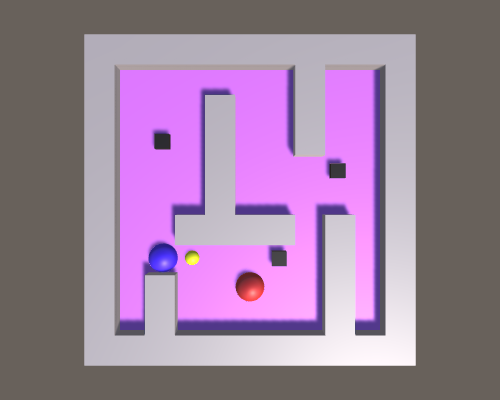
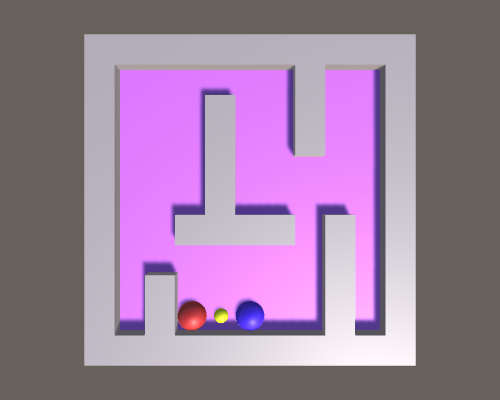
ExplodeAcotado

diff --git a/Bomberman/Assets/Scripts/Bomb.cs b/Bomberman/Assets/Scripts/Bomb.cs
@@ -103,41 +103,80 @@ public class Bomb : MonoBehaviour {
         bool b = Player1Near();
         bool c = Player2Near();
 
+
+        if (a && !b && !c)
+        { 
+            DestroyCube(Cube());
+        }
+
+        else 
+
+        { 
+            Screen.TakeScreenshot_Static(screenA, screenB);
+            yield return new WaitForSeconds(screenDelay);
+
+            if (a)
+            { 
+                DestroyCube(Cube());
+
+            }
+
+            if (b)
+                {
+                    World.Instance.KillPlayer(World.Instance.player1);
+
+                }
+             if (c)
+                {
+                    World.Instance.KillPlayer(World.Instance.player2);
+
+                }
+           
+
+            }
+
+
+            
+     
+
+        DestroyBomb();
+    }
+        /*
         if (a && b  && c )
         {
 
             Screen.TakeScreenshot_Static(screenA, screenB);
            yield return new WaitForSeconds(screenDelay);
 
-            DestroyBomb();
+           
             DestroyCube(Cube());
             World.Instance.KillPlayer(World.Instance.player1);
            World.Instance.KillPlayer(World.Instance.player2);
 
         }
 
-        //if (a && b && c == false)
+       
         else if (a && b) 
         {
        
             Screen.TakeScreenshot_Static(screenA, screenB);
             yield return new WaitForSeconds(screenDelay);
 
-            DestroyBomb();
+          
             DestroyCube(Cube());
             World.Instance.KillPlayer(World.Instance.player1);
 
        
         }
 
-        // if (a && b == false && c)
+    
         else if (a && c)
         {
             
             Screen.TakeScreenshot_Static(screenA, screenB);
             yield return new WaitForSeconds(screenDelay);
 
-            DestroyBomb();
+           
             DestroyCube(Cube());
             World.Instance.KillPlayer(World.Instance.player2);
           
@@ -147,55 +186,56 @@ public class Bomb : MonoBehaviour {
        
 
         else if (b && c)
-        //if(a==false && b && c)
+       
         {
 
             Screen.TakeScreenshot_Static(screenA, screenB);
             yield return new WaitForSeconds(screenDelay);
 
-            DestroyBomb();
+        
             World.Instance.KillPlayer(World.Instance.player1);
             World.Instance.KillPlayer(World.Instance.player2);
 
            
         }
 
-        // if (a && b == false && c == false)
+      
         else if (a)
         {
-            DestroyBomb();
+           
             DestroyCube(Cube());
 
         }
 
         else if (b)
-       // if (a == false && b && c == false)
+     
         {
 
             Screen.TakeScreenshot_Static(screenA, screenB);
             yield return new WaitForSeconds(screenDelay);
 
-            DestroyBomb();
+          
             World.Instance.KillPlayer(World.Instance.player1);
            
         }
 
         else if (c)
-       // if (a == false && b == false && c)
+      
         {
 
             Screen.TakeScreenshot_Static(screenA, screenB);
            yield return new WaitForSeconds(screenDelay);
 
-            DestroyBomb();
+           
             World.Instance.KillPlayer(World.Instance.player2);
       
         }
 
+        DestroyBomb();
+         }
+    */
 
-    
-
-    }
+   
 
     //is Player1 Near?
     private bool Player1Near()
